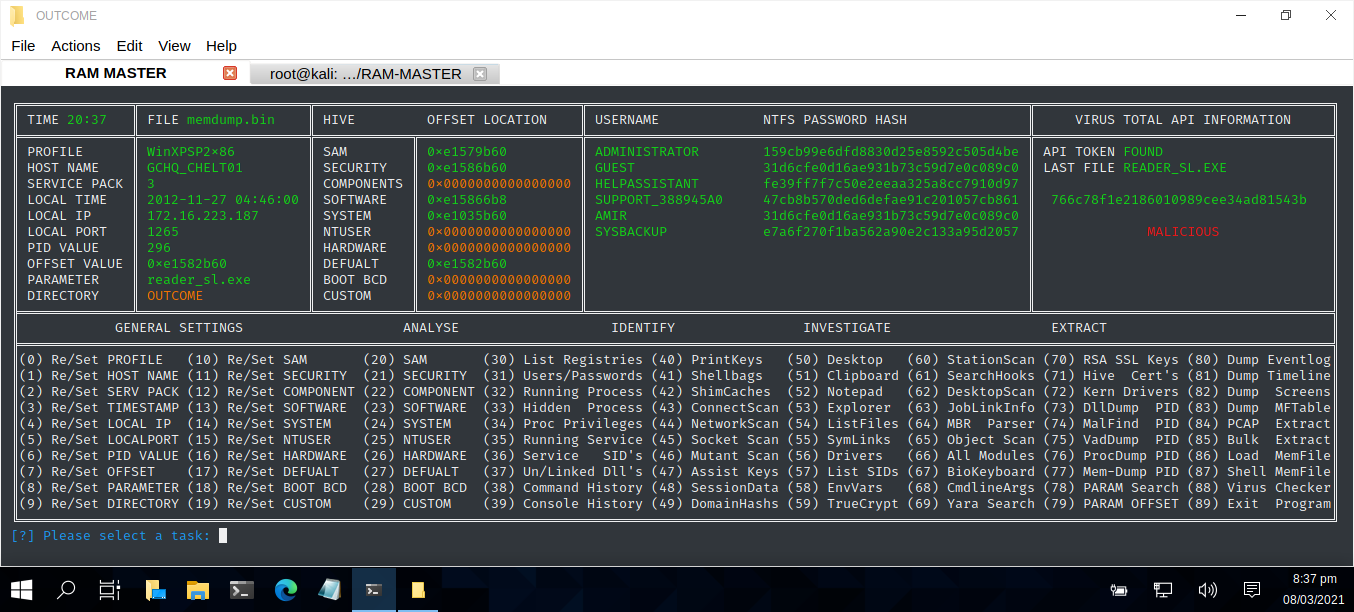
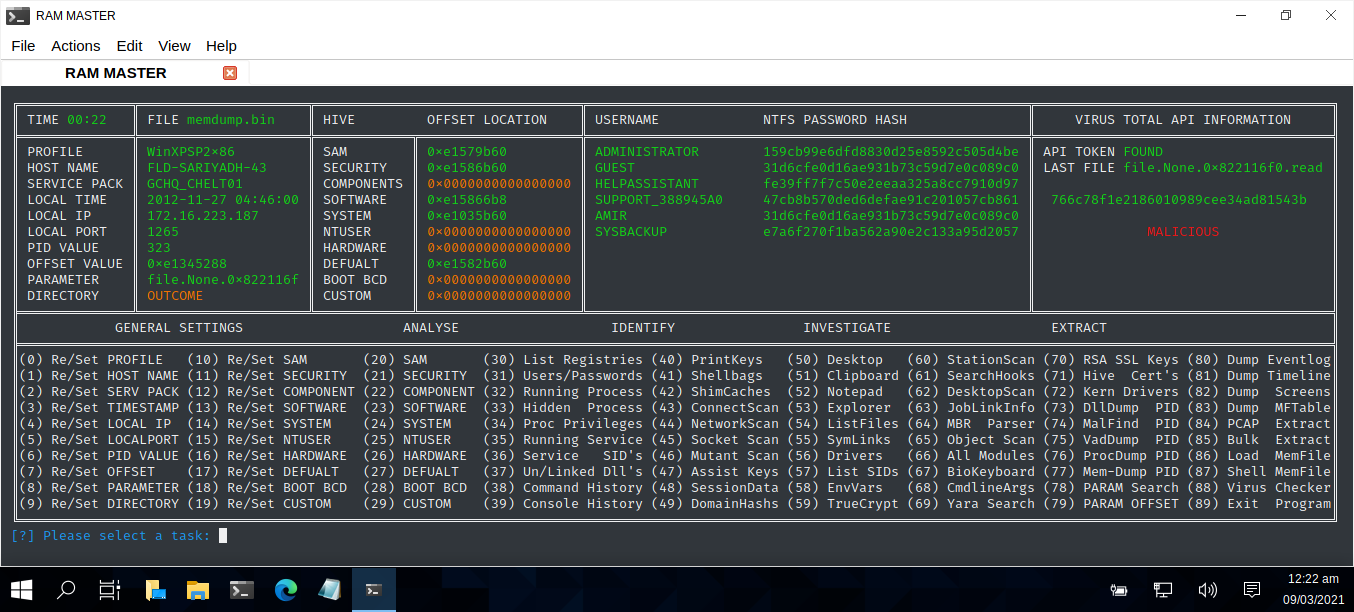
Forensic

diff --git a/RamMaster.py b/RamMaster.py
@@ -119,8 +119,8 @@ def displayMenu():
    if viral == "UNKNOWN":
       print(colored("UNKNOWN                  ", colour2), end=' ')
    else:
-      lastfile = spacePadding(viral.upper(),25)
-      print(colored(lastfile, colour1), end=' ')
+      lastfile = spacePadding(viral, 25)
+      print(colored(lastfile[:25], colour1), end=' ')
    print('\u2551')
 
 # ----------------------------------------------------------------------------------------------------------------------------------------------------
@@ -159,8 +159,8 @@ def displayMenu():
    if hash == "UNKNOWN":
       print(colored("                                   ", colour2), end=' ')
    else:
-      lasthash = spacePadding(hash,32)
-      print(colored(" " + lasthash + "  ", colour1), end=' ')
+      lasthash = spacePadding(hash, 32)
+      print(colored(" " + lasthash[:32] + "  ", colour1), end=' ')
    print('\u2551')   
    
 # ----------------------------------------------------------------------------------------------------------------------------------------------------
@@ -1874,7 +1874,7 @@ while True:
                vt = virustotal3.core.Files(API_KEY)      
                vt_files = virustotal3.core.Files(API_KEY)      
                result = vt_files.info_file(hash)
-               print(json.dumps(result, indent=4, sort_keys=True))
+               print(json.dumps(result, indent=5, sort_keys=True))
                if "Malicious" in str(result):
                   malicious = 1
          os.chdir("..")

diff --git a/README.md b/README.md
@@ -11,7 +11,7 @@
         pip install virustotal3
         git clone https://github.com/BroadbentT/RAM-MASTER.git 
         
-        VIRUS TOTAL INSTALLATION
+        VIRUS TOTAL API KEY
         -------------------------------------------------------------
         API key available from https://www.virustotal.com/gui/join-us
 <br>
@@ -26,7 +26,7 @@ Usage: python3 RamMaster.py
 
 | LANGUAGE  | FILENAME     | MD5 Hash                         | DESCRIPTION      | VERSION  |
 |------     |------        | -------                          | ------           | ----     |
-| python3   | RamMaster.py | ba06408bb3cfef1ab5c7186eeef002f3 | Command Centre   | Forensic |
+| python3   | RamMaster.py | 8091c6c80d6c67fa73ea3438ef9f208a | Command Centre   | Forensic |
 | text file | profiles.txt | 380d793d31c90a09aae417b16cbaff22 | Windows Profiles | Forensic |
 
 - [x] Uses and self-installs linux volatility 2.6 - https://www.volatilityfoundation.org/26
